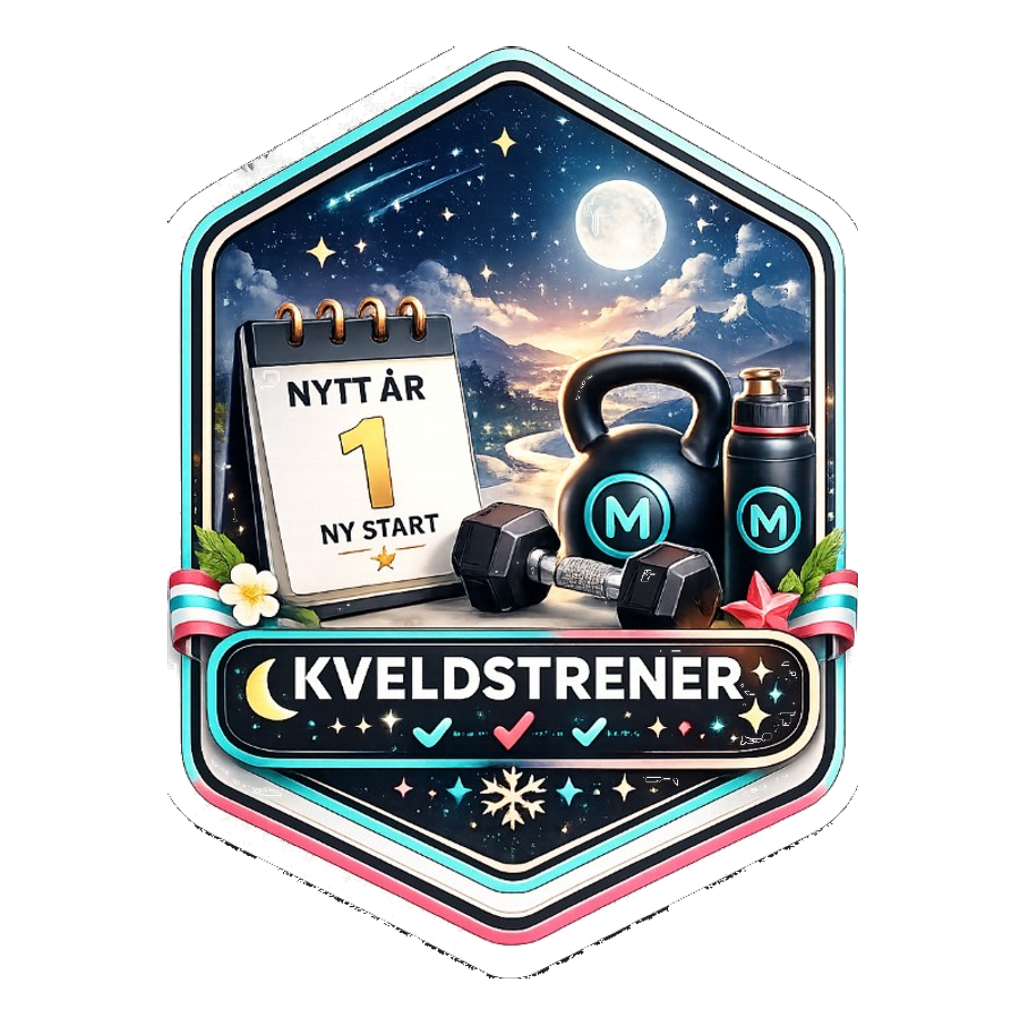
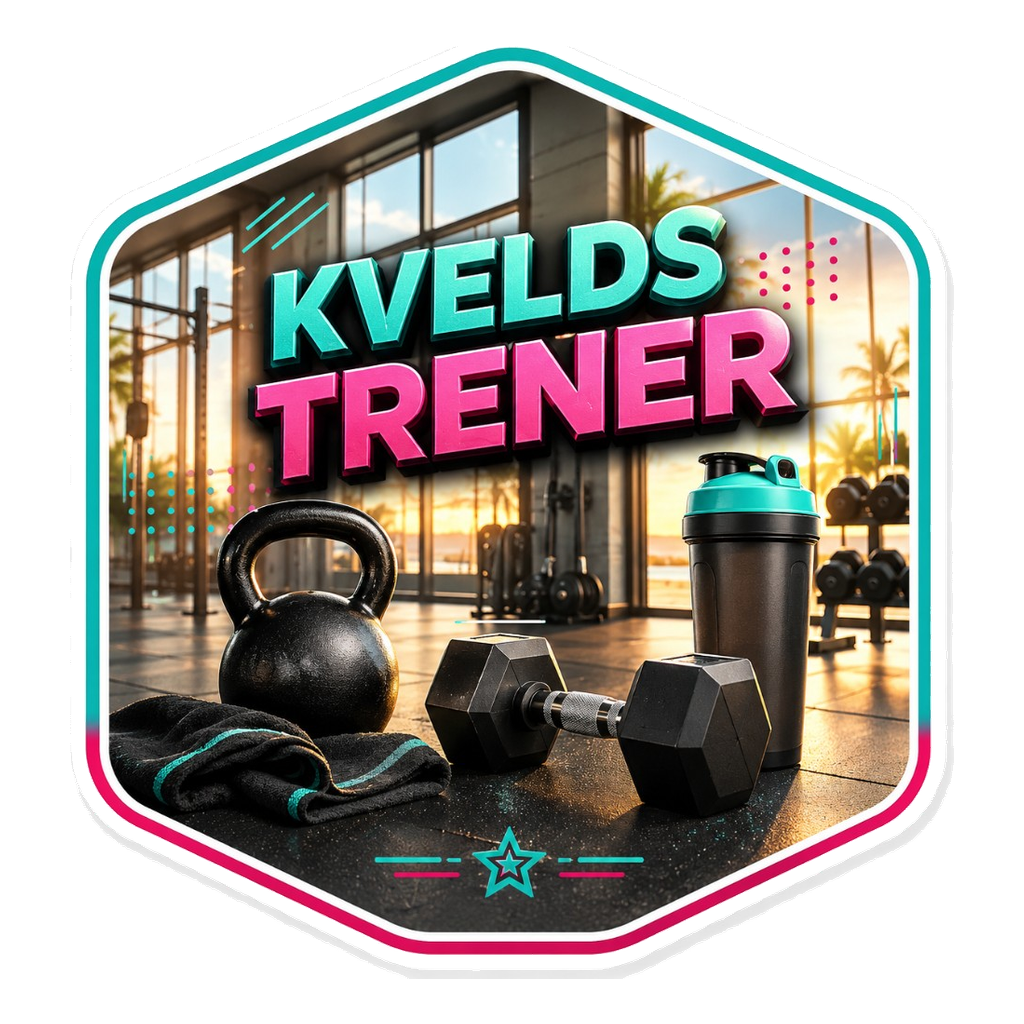
Update Kveldstrener badge artwork
Replace 04-kveldsskiftet.png with new evening gym design and bump cache version.

diff --git a/src/app/badgeAssets.ts b/src/app/badgeAssets.ts
@@ -1,5 +1,5 @@
 /** Felles badge-bilder (PNG 1024×1024, normalisert visuell størrelse). */
-export const BADGE_ASSET_VERSION = "38";
+export const BADGE_ASSET_VERSION = "39";
 
 export function badgeAssetUrl(path: string): string {
   const base = path.split("?")[0] || path;
